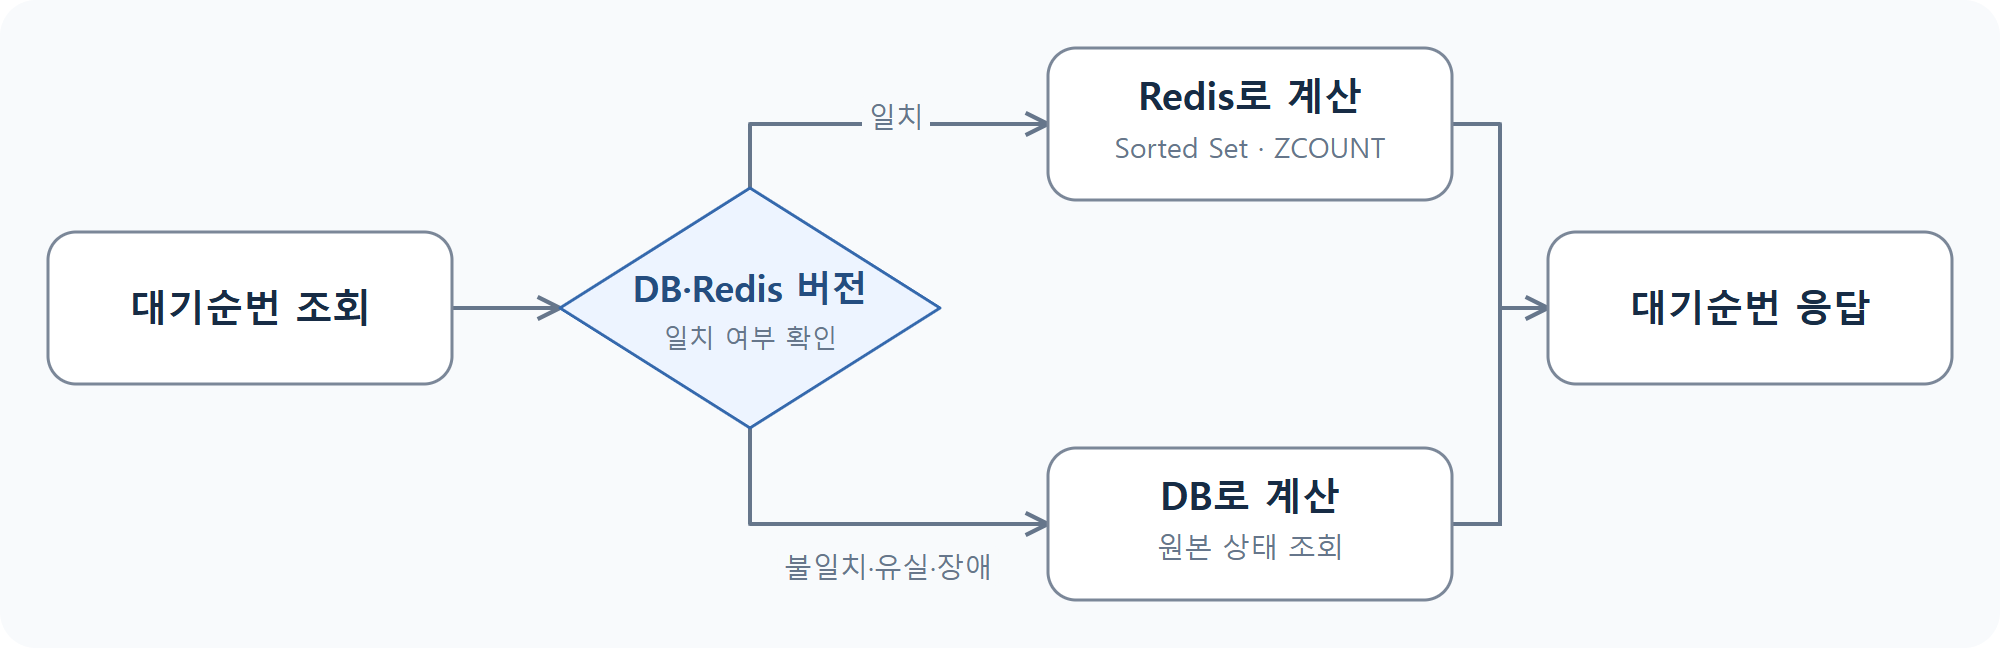
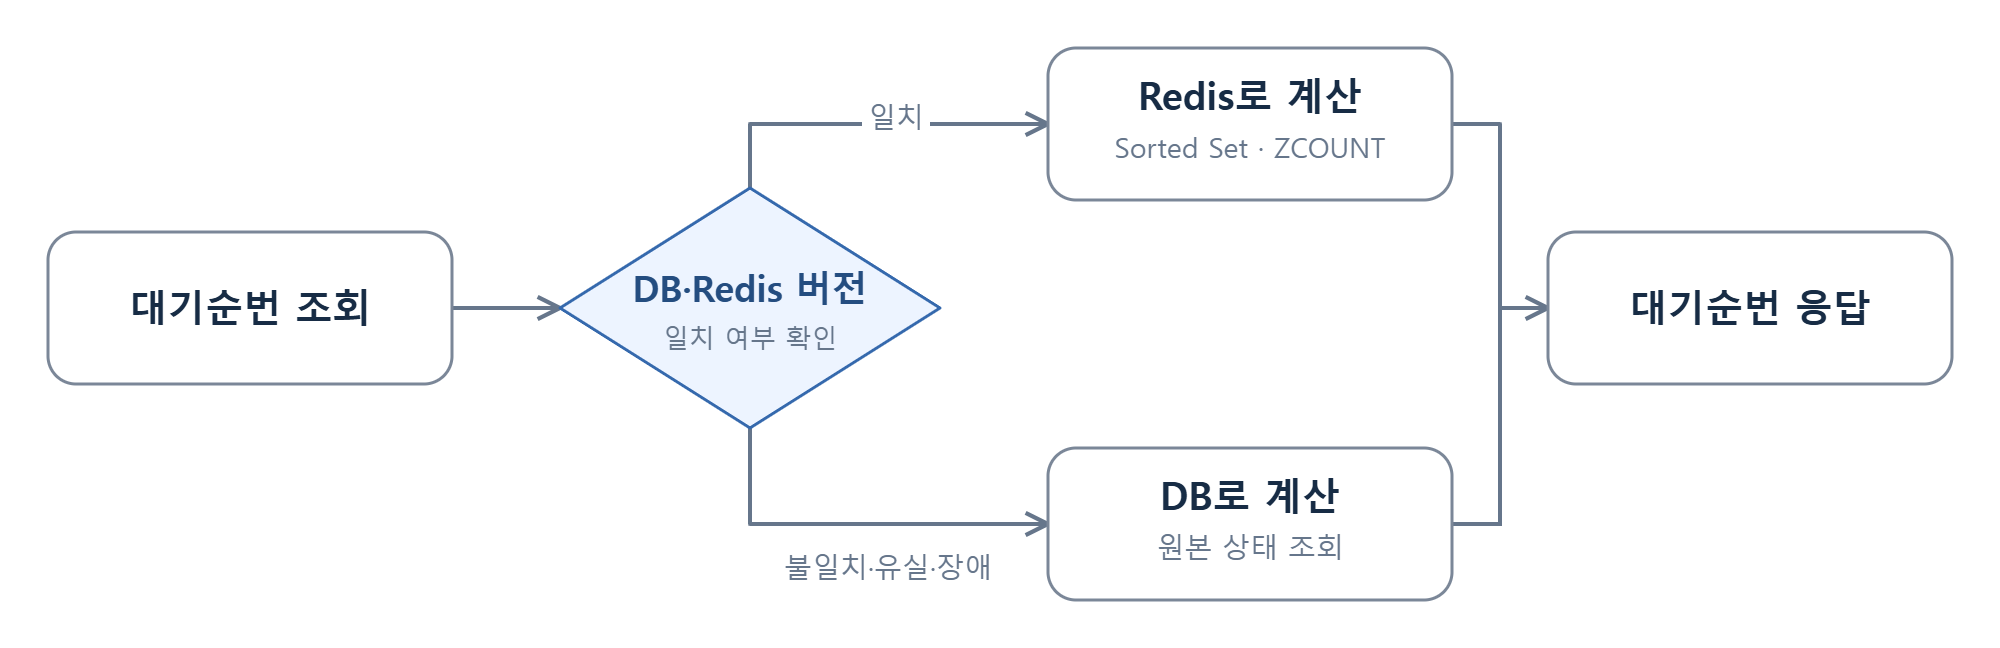
docs: README 성능 비교 기준 삭제 및 흐름도 배경 투명화

diff --git a/README.md b/README.md
@@ -147,23 +147,3 @@
 
 - 설정한 정원·초당 입장 한도 내에서 사용자를 입장시키고, 초과 접속자는 대기열에서 대기.
 - 입장권 없는 직접 API 요청을 차단하고, 입장 제어용 Redis 장애 시 `503`을 반환해 무제한 입장 방지.
-
-<br>
-
-<details>
-<summary><b>📊 성능 비교 기준</b></summary>
-
-개선 전 커밋과 현재 코드를 같은 데이터·요청 조건으로 비교하는 k6 환경 구성.
-
-| 대상 | 비교 지표 |
-| :--- | :--- |
-| **대기순번** | 순번 계산 SQL 수, DB 결과 행 수 |
-| **좌석도** | 요청당 SQL 수 |
-| **상영시간표** | 조회한 좌석 재고 행 수 |
-| **취소 후 자동 선점** | 전체 흐름 성공률, 중복 활성 선점 수 |
-
-예열 제외, 전→후→후→전 반복, 오류·요청 누락 포함. 잠금·조회·Outbox를 포함한 종합 개선으로 비교.
-
-[비교 환경 구현](https://github.com/ahnjh97/SmartTicketing/commit/4a4d9da) · [측정 조건 및 재현 방법](scripts/benchmark/README.md)
-
-</details>
